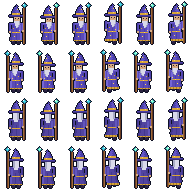
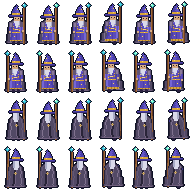
Add cape drawing functionality to wizard character

diff --git a/wizard.js b/wizard.js
@@ -35,6 +35,32 @@ function outline(g, hex) {                         // zelfde omlijning als in sc
   for (let i = 0; i < pts.length; i += 2) g.fillRect(pts[i], pts[i + 1], 1, 1);
 }
 
+function drawCape(g, cx, shoulder, drift, back) {
+  const shade = '#292438', fabric = '#524965', light = '#80728f';
+  for (let row = 0; row <= 22; row++) {
+    const sway = Math.round(drift * row / 9);
+    const flare = Math.floor(row / 7);
+    const left = cx - Math.min(7, 4 + row) - flare + sway;
+    const right = cx + Math.min(7, 4 + row) + flare + sway;
+    const y = shoulder + row;
+    rect(g, left, y, right - left + 1, 1, shade);
+    rect(g, left + 1, y, right - left - 1, 1, fabric);
+    dot(g, left + 2 + Math.floor(row / 10), y, light);
+    dot(g, right - 2 - Math.floor(row / 12), y, '#635775');
+    if (back) {
+      const fold = cx + sway + Math.floor(row / 10);
+      rect(g, fold, y, 2, 1, shade);
+      dot(g, fold - 1, y, '#70617f');
+    }
+    if (row === 22) rect(g, left + 2, y, right - left - 3, 1, '#72617f');
+  }
+  if (back) {
+    dot(g, cx, shoulder + 8, '#e6c67b');
+    rect(g, cx - 1, shoulder + 9, 3, 1, '#b38d53');
+    dot(g, cx, shoulder + 10, '#e6c67b');
+  }
+}
+
 /* tekent de tovenaar naar rechts-onder (voorkant) of rechts-boven (achterkant); links = gespiegeld */
 function figure(g, back, f, walking) {
   const cx = FX, fy = FY;
@@ -45,6 +71,10 @@ function figure(g, back, f, walking) {
   const pulse = walking ? f >> 1 : f;
   const pal = back ? { m: '#52449f', d: '#43388f', l: '#6256bd' } : { m: '#5b4bb8', d: '#4b3fa8', l: '#7466d6' };
   const skin = '#d6ab84', gold = '#d9a53a', goldL = '#ffd45a';
+
+  const shoulder = fy - 24 + bob;
+  const capeSwing = walking ? [0, -1, 0, 1][f] : 0;
+  if (!back) drawCape(g, cx, shoulder, capeSwing, false);
 
   // staf met lichtgevende bol
   rect(g, cx + 7, fy - 36 + bob, 1, 36, '#a06a3a'); rect(g, cx + 8, fy - 36 + bob, 1, 36, '#6a3c22');
@@ -73,6 +103,21 @@ function figure(g, back, f, walking) {
   rect(g, cx - 7, fy - 21 + bob + arm, 2, 8, pal.m); rect(g, cx - 7, fy - 21 + bob + arm, 1, 8, pal.d);
   rect(g, cx + 5, fy - 21 + bob - arm, 2, 8, pal.m); rect(g, cx + 6, fy - 21 + bob - arm, 1, 8, pal.l);
   rect(g, cx - 7, fy - 13 + bob + arm, 2, 2, skin); rect(g, cx + 6, fy - 14 + bob - arm, 2, 2, skin);
+
+  if (back) {
+    drawCape(g, cx, shoulder, capeSwing, true);
+    // De bol en het uiteinde van de staf blijven zichtbaar langs de cape.
+    rect(g, cx + 8, fy - 24 + bob, 1, 16, '#8b5935');
+  } else {
+    // Open kraag met twee gouden sluitingen onder de baard.
+    rect(g, cx - 7, shoulder + 2, 4, 5, '#625575');
+    rect(g, cx + 4, shoulder + 2, 3, 5, '#625575');
+    rect(g, cx - 6, shoulder + 3, 2, 4, '#8b799b');
+    dot(g, cx - 3, shoulder + 6, '#d9a85e');
+    dot(g, cx + 3, shoulder + 6, '#e7c686');
+    rect(g, cx - 3, shoulder + 9, 7, 1, '#ab7c49');
+    rect(g, cx - 1, shoulder + 9, 3, 1, '#f3d28a');
+  }
 
   // hoofd (ademt mee)
   const y0 = fy + hd + bob;
